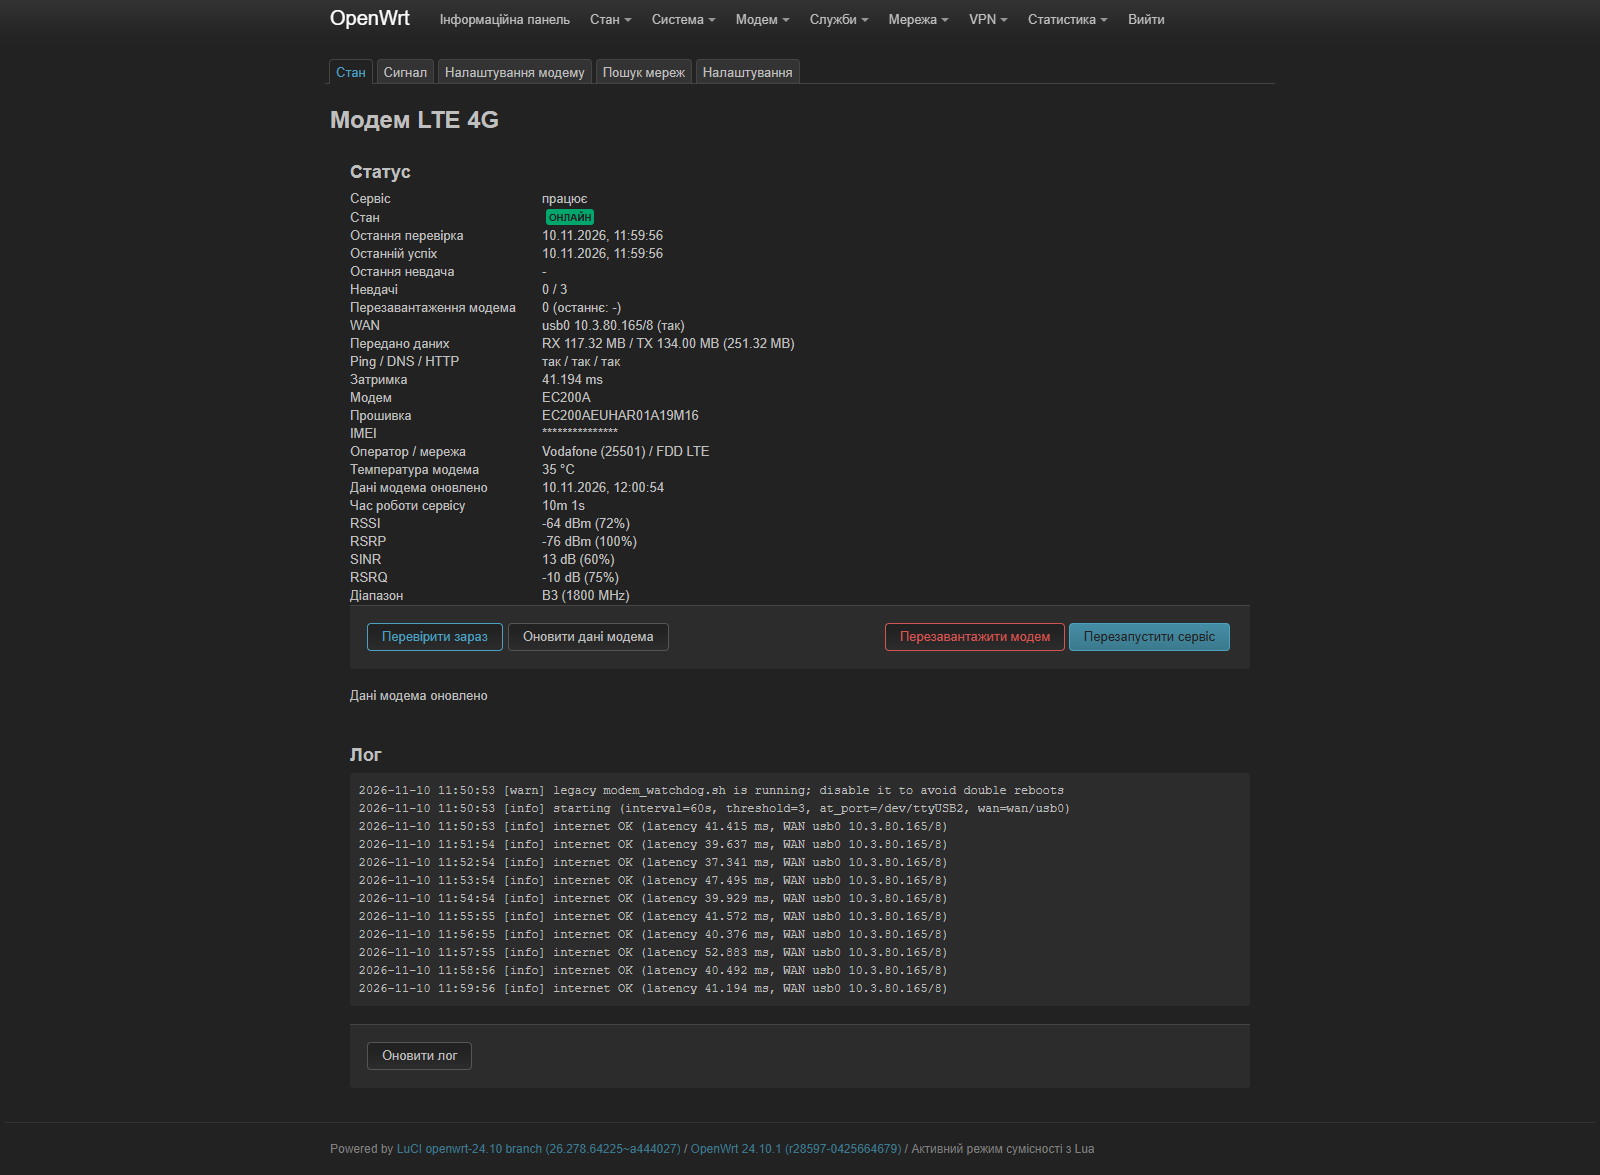
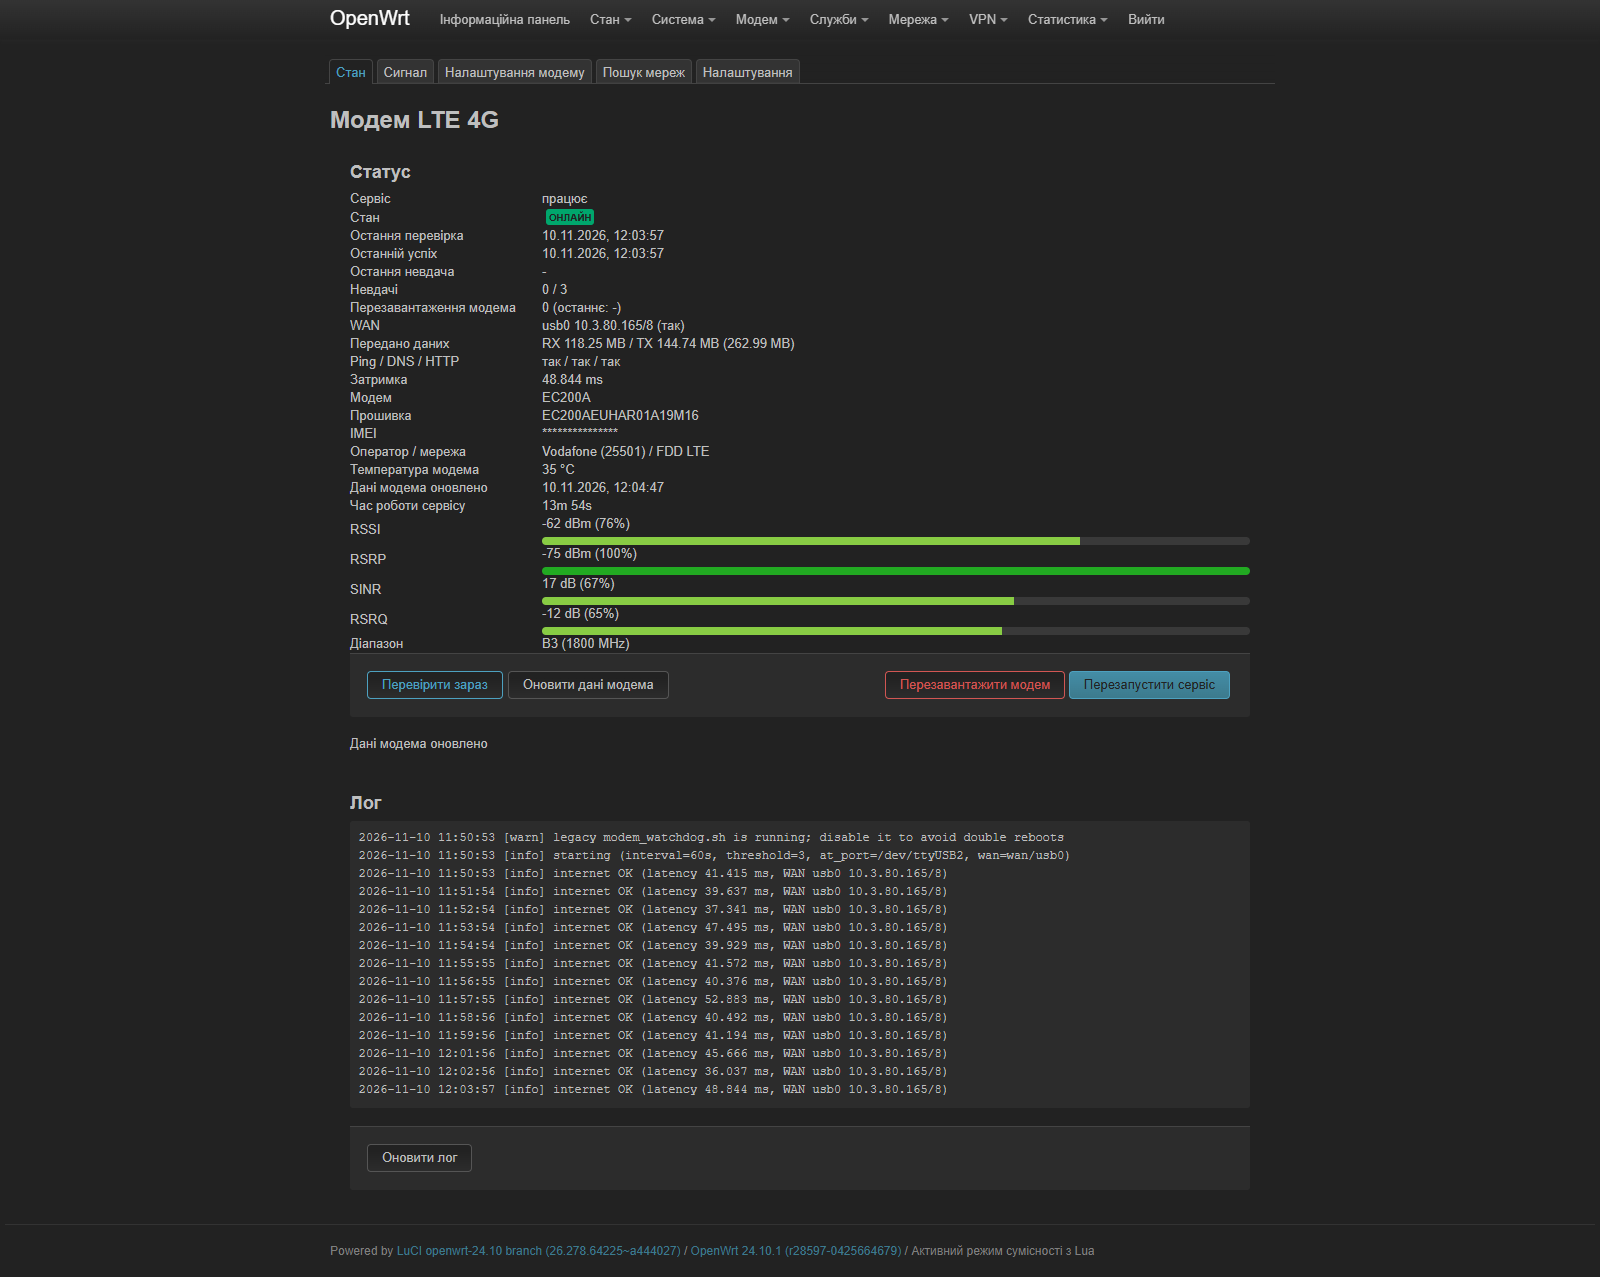
Restore CSQ card and keep colored signal bars on status

diff --git a/luci-app-modemwatch/luasrc/view/modemwatch/status.htm b/luci-app-modemwatch/luasrc/view/modemwatch/status.htm
@@ -130,19 +130,31 @@
 			</tr>
 			<tr class="cbi-section-table-row">
 				<td class="cbi-value-title"><%:RSSI%></td>
-				<td class="cbi-value-field"><span id="mw-rssi">-</span> dBm (<span id="mw-rssi-pct">-</span>)</td>
+				<td class="cbi-value-field">
+					<span id="mw-rssi">-</span> dBm (<span id="mw-rssi-pct">-</span>)
+					<div class="status-sig-bar"><div class="status-sig-fill" id="mw-rssi-bar"></div></div>
+				</td>
 			</tr>
 			<tr class="cbi-section-table-row">
 				<td class="cbi-value-title"><%:RSRP%></td>
-				<td class="cbi-value-field"><span id="mw-rsrp">-</span> dBm (<span id="mw-rsrp-pct">-</span>)</td>
+				<td class="cbi-value-field">
+					<span id="mw-rsrp">-</span> dBm (<span id="mw-rsrp-pct">-</span>)
+					<div class="status-sig-bar"><div class="status-sig-fill" id="mw-rsrp-bar"></div></div>
+				</td>
 			</tr>
 			<tr class="cbi-section-table-row">
 				<td class="cbi-value-title"><%:SINR%></td>
-				<td class="cbi-value-field"><span id="mw-sinr">-</span> dB (<span id="mw-sinr-pct">-</span>)</td>
+				<td class="cbi-value-field">
+					<span id="mw-sinr">-</span> dB (<span id="mw-sinr-pct">-</span>)
+					<div class="status-sig-bar"><div class="status-sig-fill" id="mw-sinr-bar"></div></div>
+				</td>
 			</tr>
 			<tr class="cbi-section-table-row">
 				<td class="cbi-value-title"><%:RSRQ%></td>
-				<td class="cbi-value-field"><span id="mw-rsrq">-</span> dB (<span id="mw-rsrq-pct">-</span>)</td>
+				<td class="cbi-value-field">
+					<span id="mw-rsrq">-</span> dB (<span id="mw-rsrq-pct">-</span>)
+					<div class="status-sig-bar"><div class="status-sig-fill" id="mw-rsrq-bar"></div></div>
+				</td>
 			</tr>
 			<tr class="cbi-section-table-row">
 				<td class="cbi-value-title"><%:Band%></td>
@@ -388,6 +400,10 @@
 					40: '2300 MHz', 41: '2500 MHz'
 				};
 				setText('mw-band', band ? 'B' + band + (bandFreq[band] ? ' (' + bandFreq[band] + ')' : '') : '');
+				setBar('mw-rssi-bar', prssi);
+				setBar('mw-rsrp-bar', prsrp);
+				setBar('mw-sinr-bar', psinr);
+				setBar('mw-rsrq-bar', prsrq);
 
 				setText('mw-temp', d.modem_temp);
 				setText('mw-last-info', fmtTime(d.last_info));

diff --git a/luci-app-modemwatch/luasrc/view/modemwatch/signal.htm b/luci-app-modemwatch/luasrc/view/modemwatch/signal.htm
@@ -112,6 +112,13 @@
 
 		<div class="sig-grid">
 			<div class="sig-card">
+				<div class="sig-name">CSQ</div>
+				<div class="sig-raw" id="sig-csq-raw">—</div>
+				<div class="sig-pct" id="sig-csq-pct">—</div>
+				<div class="sig-bar"><div class="sig-bar-fill" id="sig-csq-bar"></div></div>
+				<div class="sig-desc"><%:Signal Strength%></div>
+			</div>
+			<div class="sig-card">
 				<div class="sig-name">RSSI</div>
 				<div class="sig-raw" id="sig-rssi-raw">—</div>
 				<div class="sig-pct" id="sig-rssi-pct">—</div>
@@ -318,7 +325,9 @@
 				var prsrp = pctRSRP(rsrp);
 				var psinr = pctSINR(sinr);
 				var prsrq = pctRSRQ(rsrq);
+				var pcsq = pctCSQ(csq);
 
+				setMetric('csq', csq, pcsq, '');
 				setMetric('rssi', rssi, prssi, 'dBm');
 				setMetric('rsrp', rsrp, prsrp, 'dBm');
 				setMetric('sinr', sinr, psinr, 'dB');
